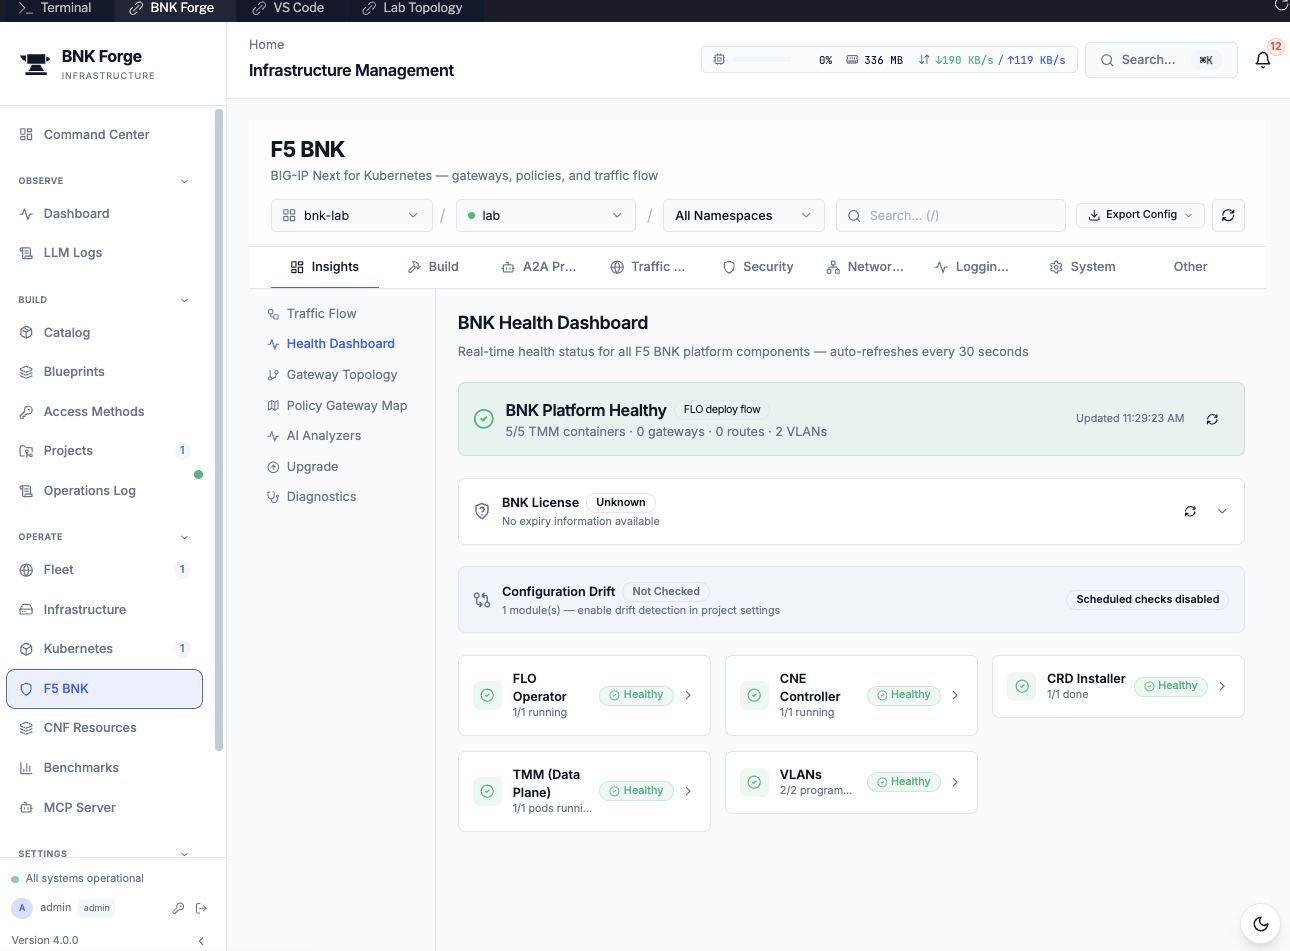
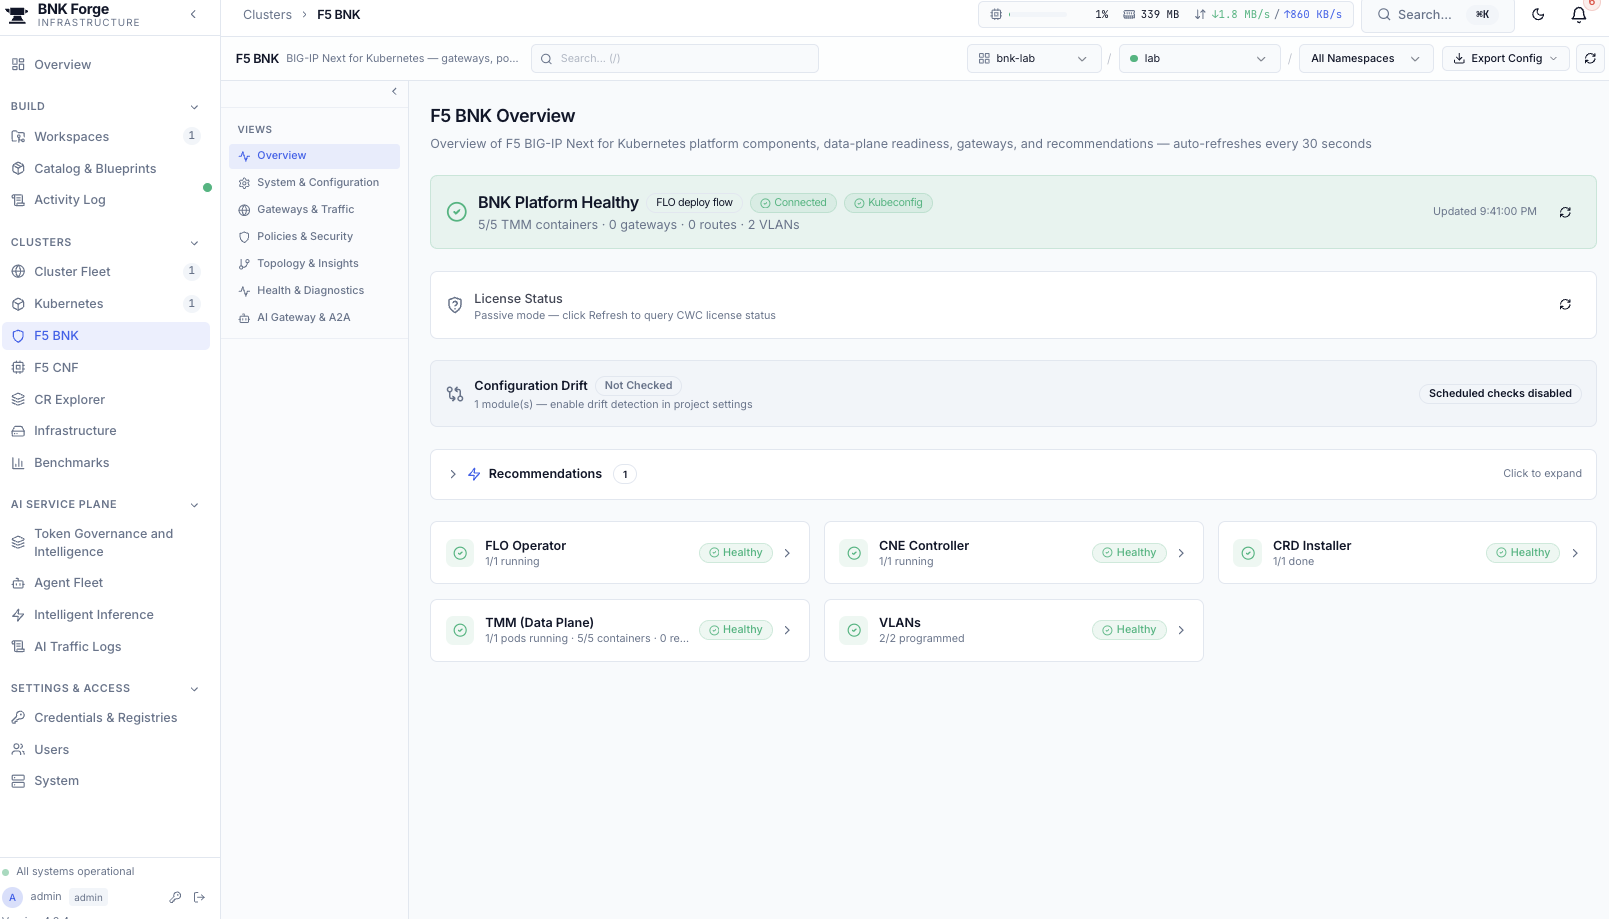
challenges 8 and 11: Forge 4.3.4 screens (Clusters > Kubernetes, Clusters > F5 BNK Overview, passive licence card, Cluster Fleet with its 2.4.1 label), new screenshots

diff --git a/instruqt/bnk-host-install/08-forge-deploy/assignment.md b/instruqt/bnk-host-install/08-forge-deploy/assignment.md
@@ -156,7 +156,7 @@ kubectl get pods -A --no-headers | grep -vE 'kube-system|calico|tigera|local-pat
 
 A cold install takes about **6 to 10 minutes**. The workspace's Deployment Pipeline turns to **Done**:
 
-![Forge project bnk-lab: the deployment pipeline shows BNK 2.4.2 Host install, Done](../assets/forge-8-pipeline-done.png)
+![Forge workspace bnk-lab: the Deployment Pipeline shows BNK 2.4.2 Host install Done, the workspace and the module Deployed](../assets/forge-8-pipeline-done.png)
 
 > ### Concept: why one container per step
 > If step `cneinstance` fails, Forge shows *that* step's log, and **Retry** runs again from there,
@@ -168,25 +168,34 @@ A cold install takes about **6 to 10 minutes**. The workspace's Deployment Pipel
 
 ## Step 3: The cluster through Forge's eyes
 
-The module's `cluster` block told Forge to register the cluster it just installed. Open **Operate >
-Kubernetes**, choose project `bnk-lab` and cluster `lab`:
+The module's `cluster` block told Forge to register the cluster it just installed. Open **Clusters >
+Kubernetes** and pick workspace `bnk-lab` and cluster `lab` in the selectors at the top:
 
 ![Forge Kubernetes dashboard: Cluster Ready, 3/3 nodes, cert-manager v1.16.2, Multus 3/3, BNK installed](../assets/forge-9-cluster.png)
 
 Forge scanned the cluster in under two seconds and found everything BNK depends on: three nodes,
 cert-manager, Multus on every node, storage, the Gateway API, and BNK itself.
 
-Now open **F5 BNK > Insights > Health Dashboard**:
+Now open **Clusters > F5 BNK**. It opens on **Overview**:
 
-![Forge BNK Health Dashboard: BNK Platform Healthy, 5/5 TMM containers, 2 VLANs, FLO, CNE controller, CRD installer and TMM all Healthy](../assets/forge-10-bnk-health.png)
+![Forge F5 BNK Overview: BNK Platform Healthy, 5/5 TMM containers, 2 VLANs, FLO, CNE controller, CRD installer and TMM all Healthy](../assets/forge-10-bnk-health.png)
 
 **BNK Platform Healthy.** Five of five TMM containers, both VLANs programmed, and the operator, the
 controller and the CRD installer all green. Zero gateways for now. You will add the first one in
 challenge 10.
 
-> The **BNK License** card says *Unknown*. That is a gap in this Forge version, which cannot yet read
-> the licence status that BNK 2.4.2 reports. The cluster itself knows better, and you will check it
-> from the terminal in a moment.
+> The **License Status** card is in *passive mode*: Forge does not ask F5's licensing service on
+> its own. Press the card's refresh button to make it ask. The cluster itself knows the answer
+> already, and you will check it from the terminal in a moment.
+
+One more view. **Clusters > Cluster Fleet** is where an operations team with many clusters starts
+the day. Yours has one, **lab**, and it is **Healthy**:
+
+![Forge Cluster Fleet: one cluster, lab, Healthy, Platform Generic On-Prem, BNK column 2.4.1, 1 TMM](../assets/forge-11-fleet.png)
+
+> Look at the **BNK** column: it says **2.4.1**. That is Forge's label, not your cluster's. The
+> release that runs is whatever the CNEInstance names, and the terminal check below prints
+> **manifest 2.4.2**. When a dashboard and the cluster disagree, believe the cluster.
 
 From the terminal, the same facts, plus who installed them:
 

diff --git a/instruqt/bnk-host-install/11-day-2/assignment.md b/instruqt/bnk-host-install/11-day-2/assignment.md
@@ -151,22 +151,21 @@ lab owner
 In Forge, pick your workspace (`bnk-lab` on path B, `operations` on paths A and C) and the cluster
 `lab` at the top of each page. Then work through Jonas's questions.
 
-**1. Which release is running?** Open **Operate > Kubernetes**, scroll to **F5 BNK Installation**:
+**1. Which release is running?** Open **Clusters > Kubernetes**, scroll to **F5 BNK Installation**:
 
 ![Forge F5 BNK Installation card: FLO deploy flow, FLO 2.30.0-0.11.4, TMM 5/5 ready, CNE controller running, CNEInstance features, VLANs external 10.10.10.11 (1.1) and internal 172.18.0.250 (1.2)](../assets/day2-5-bnk-installation.png)
 
 Install method *FLO deploy flow*, FLO **2.30.0-0.11.4**, TMM 5/5, and the two VLANs with their self
 IPs on interfaces 1.1 and 1.2. Every value matches `versions.env` and `clusters/lab.network.yaml`.
 
-**2. Is it healthy?** Open **F5 BNK > Insights > Health Dashboard**:
+**2. Is it healthy?** Open **Clusters > F5 BNK** (it opens on **Overview**):
 
 ![Forge BNK Health Dashboard: Platform Healthy, 5/5 TMM containers, 1 gateway, 1 route, 2 VLANs, all components Healthy](../assets/day2-1-bnk-health.png)
 
 *BNK Platform Healthy*, and Forge has noticed your app by itself: **1 gateway, 1 route**.
 
-**Is it licensed?** Forge's licence card says *Unknown*, because this Forge version cannot yet read
-the licence status that BNK 2.4.2 reports. Its CWC row shows the licensing service *reachable* and
-*set up*, so the plumbing is fine. Ask the cluster itself:
+**Is it licensed?** Forge's **License Status** card is in *passive mode*, so it shows nothing until
+you press its refresh button and Forge asks F5's licensing service. Ask the cluster itself:
 
 ```run
 lab status
